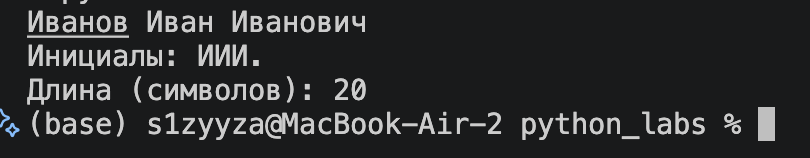
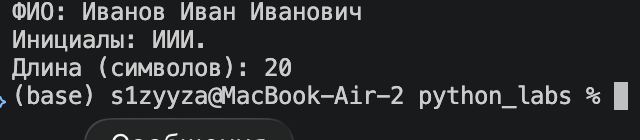
1221

Changed region(s): [[0.0, 0.0, 1.0, 0.9429], [0.1562, 0.9429, 0.3125, 1.0], [0.3438, 0.9714, 0.375, 1.0]]

diff --git a/src/lab01/03_discount_vat.py b/src/lab01/03_discount_vat.py
@@ -1,6 +1,6 @@
-price = int(input())
-discount = int(input())
-vat = int(input())
+price = int(input('Price: '))
+discount = int(input('Discount: '))
+vat = int(input('vat: '))
 base = price * (1-discount/100)
 vata = base * (vat/100)
 total = base + vata

diff --git a/src/lab01/02_sum_avg.py b/src/lab01/02_sum_avg.py
@@ -1,2 +1,2 @@
-a,b = float(input().replace(',','.')),float(input().replace(',','.'))
+a,b = float(input('a: ').replace(',','.')),float(input('b: ').replace(',','.'))
 print(f'sum={a+b}; avg={(a+b)/2:.2f}')

diff --git a/src/lab01/01_greeting.py b/src/lab01/01_greeting.py
@@ -1,2 +1,3 @@
-a,b = input(),int(input())
+a = input('Имя: ')
+b = int(input('Возраст: '))
 print(f'Привет, {a}! Через год тебе будет {b+1}.')

diff --git a/src/lab01/05_initials_and_len.py b/src/lab01/05_initials_and_len.py
@@ -1,4 +1,4 @@
-fio = input()
+fio = input('ФИО: ')
 words = fio.split()
 initials = ''.join(w[0].upper() for w in words) + '.'
 length = len(' '.join(words))

diff --git a/src/lab01/04_minutes_to_hhmm.py b/src/lab01/04_minutes_to_hhmm.py
@@ -1,2 +1,2 @@
-m = int(input())
+m = int(input('Минуты: '))
 print(f'{m//60}:{m%60:02d}')

diff --git a/src/lab01/README.md b/src/lab01/README.md
@@ -3,7 +3,8 @@
 #### Задание 1
 
 ```python
-a,b = input(),int(input())
+a = input('Имя: ')
+b = int(input('Возраст: '))
 print(f'Привет, {a}! Через год тебе будет {b+1}.')
 ```
 
@@ -12,7 +13,7 @@ print(f'Привет, {a}! Через год тебе будет {b+1}.')
 #### Задание 2
 
 ```python 
-a,b = float(input().replace(',','.')),float(input().replace(',','.'))
+a,b = float(input('a: ').replace(',','.')),float(input('b: ').replace(',','.'))
 print(f'sum={a+b}; avg={(a+b)/2:.2f}')
 ```
 
@@ -22,9 +23,9 @@ print(f'sum={a+b}; avg={(a+b)/2:.2f}')
 #### Задание 3
 
 ```python
-price = int(input())
-discount = int(input())
-vat = int(input())
+price = int(input('Price: '))
+discount = int(input('Discount: '))
+vat = int(input('vat: '))
 base = price * (1-discount/100)
 vata = base * (vat/100)
 total = base + vata
@@ -38,7 +39,7 @@ print(f'Итого к оплате:    {total:.2f} ₽')
 #### Задание 4
 
 ```python
-m = int(input())
+m = int(input('Минуты: '))
 print(f'{m//60}:{m%60:02d}')
 ```
 
@@ -48,7 +49,7 @@ print(f'{m//60}:{m%60:02d}')
 #### Задание 5
 
 ```python
-fio = input()
+fio = input('ФИО: ')
 words = fio.split()
 initials = ''.join(w[0].upper() for w in words) + '.'
 length = len(' '.join(words))
